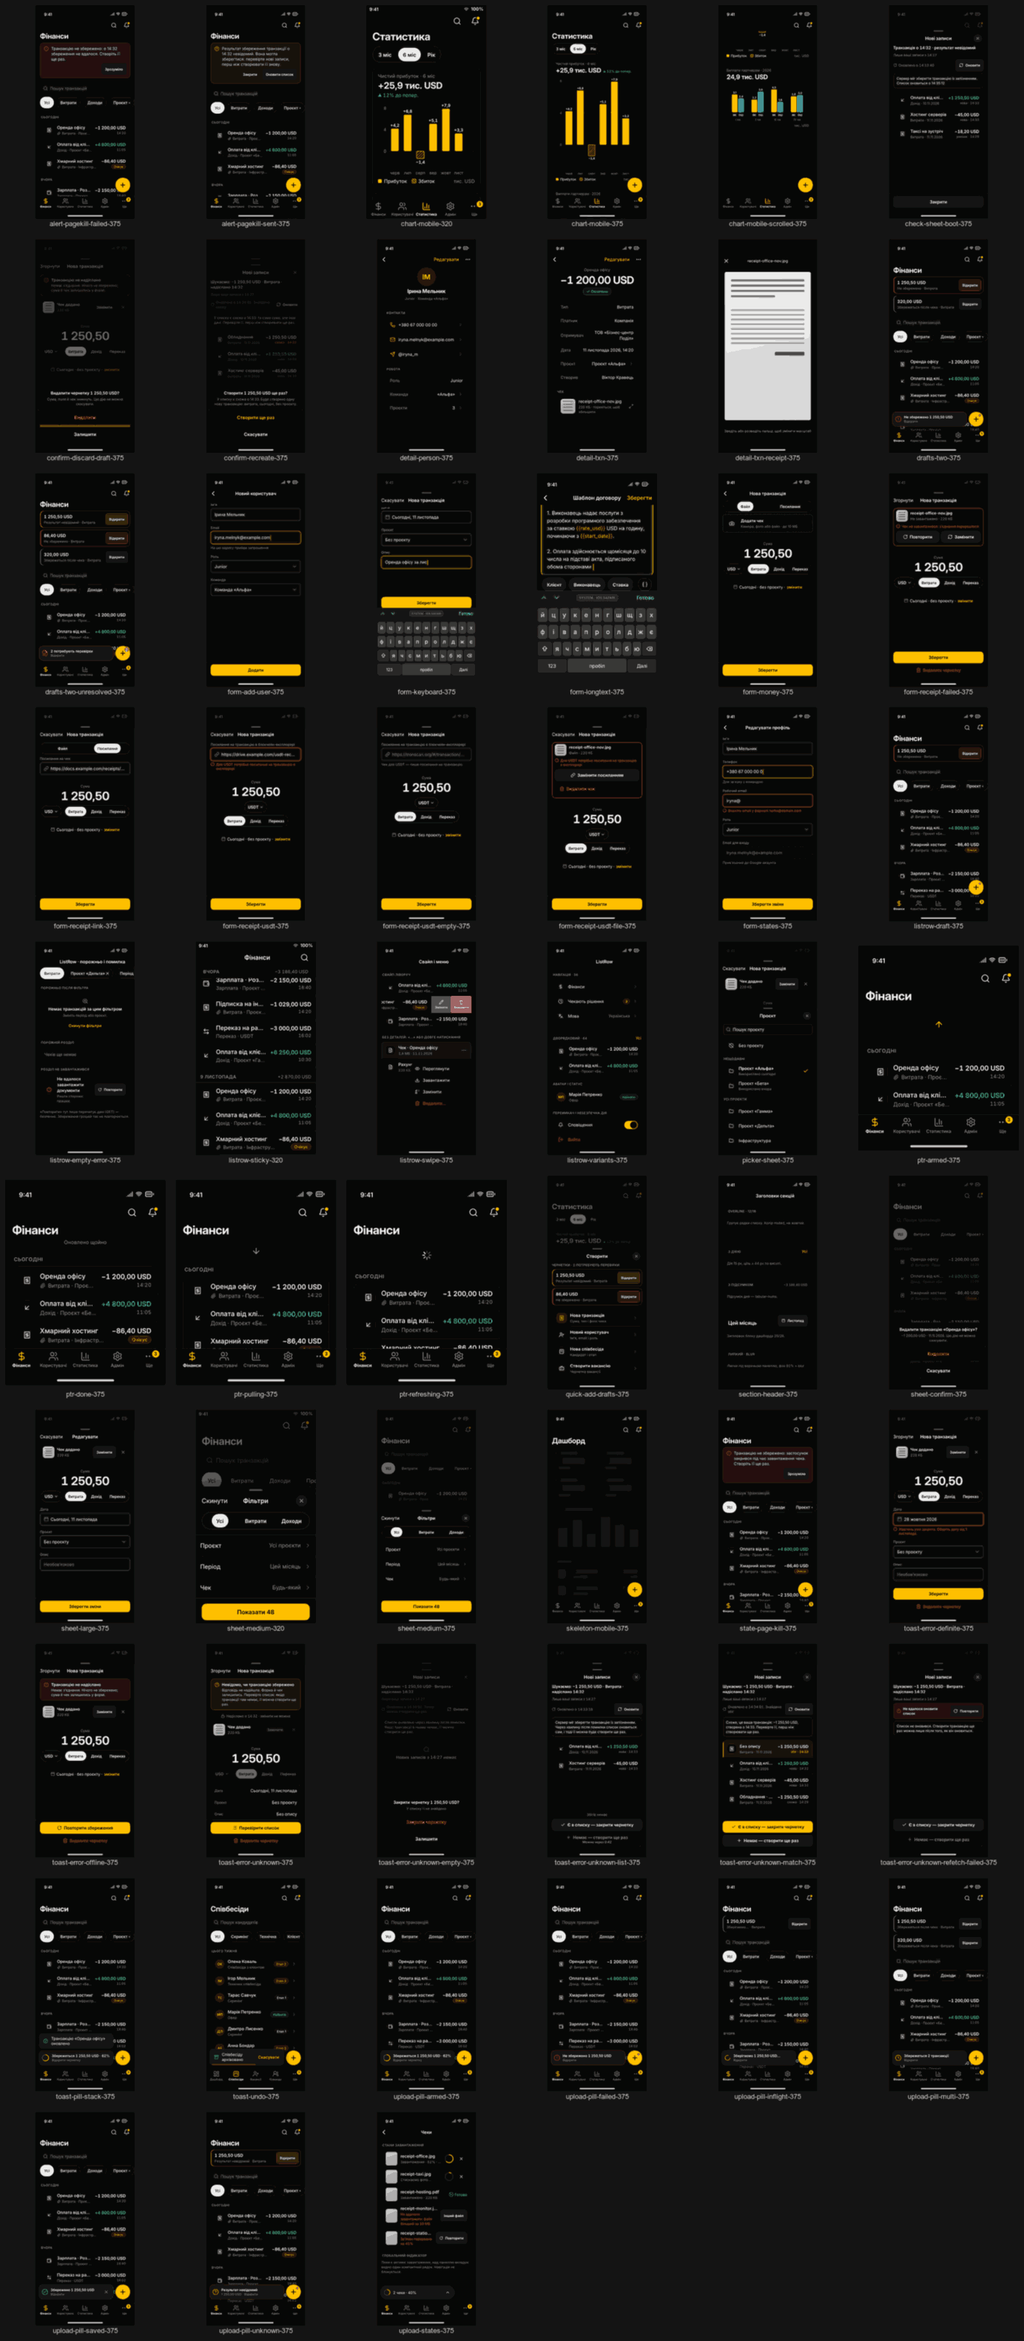
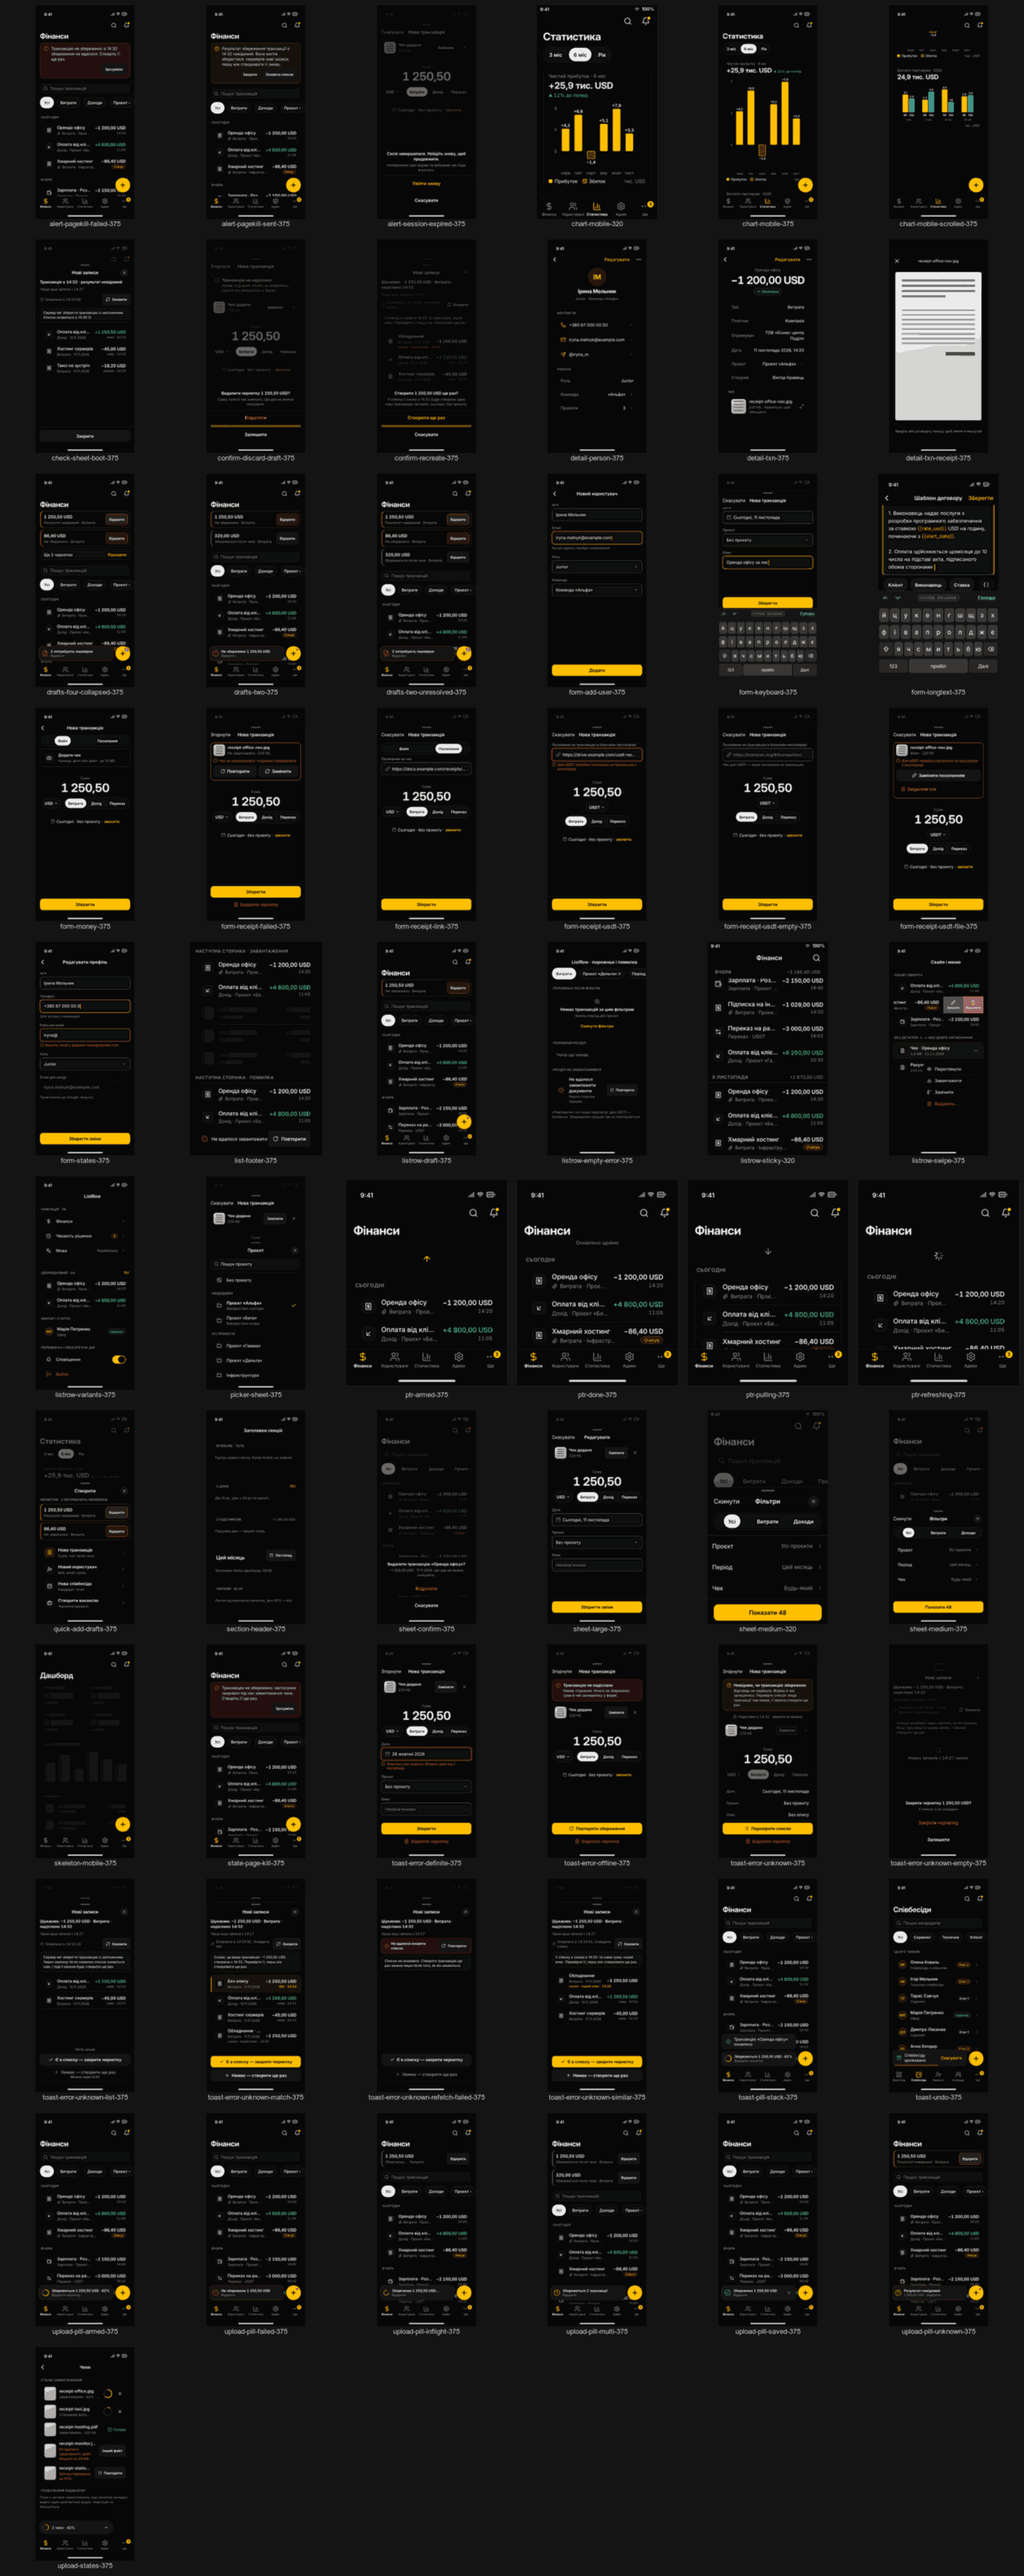
docs(design): session-expired state, app-owned boot guard, exact «схожа», capped draft menus (council R9)
Frames table and contact sheets refreshed for round 12.

ac_verified: n/a (docs)

diff --git a/docs/design/screens/_foundation/primitives-v2.md b/docs/design/screens/_foundation/primitives-v2.md
@@ -463,7 +463,7 @@ instant, sheet 280 ms up / 150 ms down, desktop 150 ms crossfade, reduced motion
 
 ## 8. Frames (all PNG under `assets/primitives-v2/`)
 
-79 frames; phones and component crops render at 2×, full 768 / 1024 / 1440 screens and the storyboard at 1×. Every
+83 frames; phones and component crops render at 2×, full 768 / 1024 / 1440 screens and the storyboard at 1×. Every
 PNG is ≤ 400 KB.
 
 | Frame                                    | Viewport (CSS px) | PNG (px)    |  KB | Round            |
@@ -504,8 +504,8 @@ PNG is ≤ 400 KB.
 | `toast-undo-1440`                        | 1440 × 900        | 1440 × 900  |  34 |                  |
 | `toast-error-definite-375`               | 375 × 812         | 750 × 1624  |  38 |                  |
 | `toast-error-unknown-375`                | 375 × 812         | 750 × 1624  |  46 |                  |
-| `toast-error-unknown-list-375`           | 375 × 812         | 750 × 1624  |  47 | re-rendered (R8) |
-| `toast-error-unknown-match-375`          | 375 × 812         | 750 × 1624  |  55 | re-rendered (R8) |
+| `toast-error-unknown-list-375`           | 375 × 812         | 750 × 1624  |  47 |                  |
+| `toast-error-unknown-match-375`          | 375 × 812         | 750 × 1624  |  55 | re-rendered (R9) |
 | `toast-error-unknown-empty-375`          | 375 × 812         | 750 × 1624  |  36 |                  |
 | `toast-error-unknown-refetch-failed-375` | 375 × 812         | 750 × 1624  |  31 |                  |
 | `form-receipt-failed-375`                | 375 × 812         | 750 × 1624  |  36 |                  |
@@ -517,31 +517,35 @@ PNG is ≤ 400 KB.
 | `upload-pill-inflight-375`               | 375 × 812         | 750 × 1624  |  58 |                  |
 | `upload-pill-unknown-375`                | 375 × 812         | 750 × 1624  |  60 |                  |
 | `drafts-two-375`                         | 375 × 812         | 750 × 1624  |  57 |                  |
-| `drafts-two-unresolved-375`              | 375 × 812         | 750 × 1624  |  55 | re-rendered (R8) |
-| `quick-add-drafts-375`                   | 375 × 812         | 750 × 1624  |  45 | re-rendered (R8) |
+| `drafts-two-unresolved-375`              | 375 × 812         | 750 × 1624  |  55 |                  |
+| `drafts-four-collapsed-375`              | 375 × 812         | 750 × 1624  |  56 | new (R9)         |
+| `quick-add-drafts-375`                   | 375 × 812         | 750 × 1624  |  45 |                  |
 | `toast-pill-stack-375`                   | 375 × 812         | 750 × 1624  |  60 |                  |
 | `state-page-kill-375`                    | 375 × 812         | 750 × 1624  |  54 |                  |
-| `alert-pagekill-sent-375`                | 375 × 812         | 750 × 1624  |  57 | re-rendered (R8) |
-| `check-sheet-boot-375`                   | 375 × 812         | 750 × 1624  |  42 | re-rendered (R8) |
+| `alert-pagekill-sent-375`                | 375 × 812         | 750 × 1624  |  57 |                  |
+| `check-sheet-boot-375`                   | 375 × 812         | 750 × 1624  |  42 |                  |
 | `alert-pagekill-failed-375`              | 375 × 812         | 750 × 1624  |  54 |                  |
-| `confirm-recreate-375`                   | 375 × 812         | 750 × 1624  |  52 | re-rendered (R8) |
+| `toast-error-unknown-similar-375`        | 375 × 812         | 750 × 1624  |  50 | new (R9)         |
+| `confirm-recreate-375`                   | 375 × 812         | 750 × 1624  |  53 | re-rendered (R9) |
+| `alert-session-expired-375`              | 375 × 812         | 750 × 1624  |  35 | new (R9)         |
 | `confirm-discard-draft-375`              | 375 × 812         | 750 × 1624  |  38 |                  |
 | `listrow-draft-375`                      | 375 × 812         | 750 × 1624  |  56 |                  |
 | `upload-states-375`                      | 375 × 812         | 750 × 1624  |  55 |                  |
 | `upload-pill-768`                        | 768 × 1024        | 768 × 1024  |  42 |                  |
 | `upload-pill-1440`                       | 1440 × 900        | 1440 × 900  |  59 |                  |
 | `drafts-desktop-1440`                    | 1440 × 900        | 1440 × 900  |  60 |                  |
-| `drafts-chooser-1440`                    | 1440 × 900        | 1440 × 900  |  35 | re-rendered (R8) |
-| `drafts-chooser-768`                     | 768 × 1024        | 768 × 1024  |  32 | re-rendered (R8) |
-| `check-dialog-1024`                      | 1024 × 768        | 1024 × 768  |  55 | re-rendered (R8) |
+| `drafts-chooser-1440`                    | 1440 × 900        | 1440 × 900  |  35 |                  |
+| `drafts-chooser-768`                     | 768 × 1024        | 768 × 1024  |  32 | re-rendered (R9) |
+| `check-dialog-1024`                      | 1024 × 768        | 1024 × 768  |  54 | re-rendered (R9) |
 | `skeleton-mobile-375`                    | 375 × 812         | 750 × 1624  |  24 |                  |
 | `skeleton-768`                           | 768 × 1024        | 768 × 1024  |  18 |                  |
 | `skeleton-1440`                          | 1440 × 900        | 1440 × 900  |  33 |                  |
 | `skeleton-table-desktop`                 | 960 × 420         | 1920 × 904  |  23 |                  |
+| `list-footer-375`                        | 375 × 600         | 750 × 1208  |  37 | new (R9)         |
 | `chart-mobile-375`                       | 375 × 812         | 750 × 1624  |  35 |                  |
 | `chart-mobile-scrolled-375`              | 375 × 812         | 750 × 1624  |  25 |                  |
 | `chart-mobile-320`                       | 320 × 568         | 640 × 1136  |  28 |                  |
-| `chart-desktop`                          | 1200 × 420        | 2400 × 934  |  49 | re-rendered (R8) |
+| `chart-desktop`                          | 1200 × 420        | 2400 × 934  |  49 |                  |
 | `transition-storyboard`                  | 900 × 1200        | 900 × 2158  |  82 |                  |
 | `ptr-armed-375`                          | 375 × 480         | 750 × 960   |  23 |                  |
 | `ptr-done-375`                           | 375 × 480         | 750 × 960   |  29 |                  |
